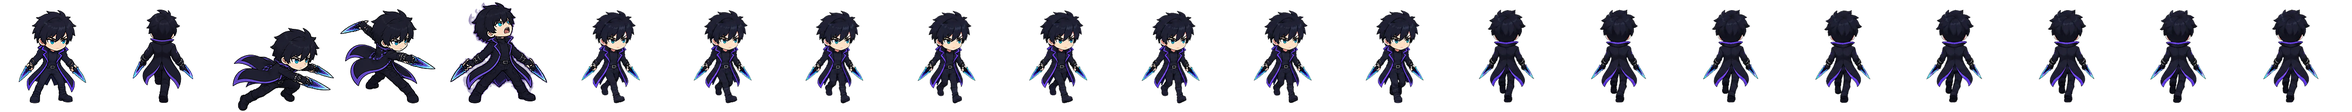
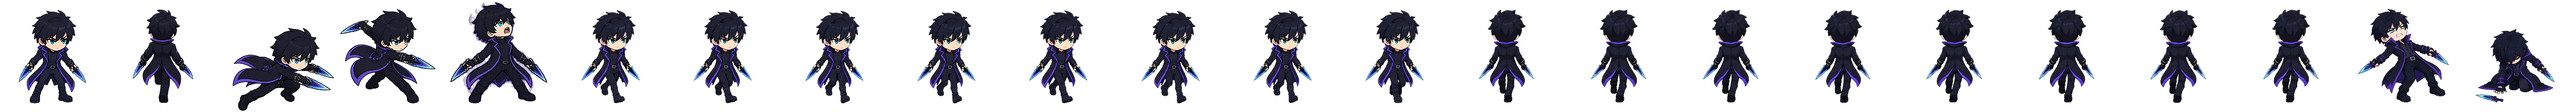
ART-14 사망 연출과 일반 공격 포즈 및 베어 이그리트 걷기 연결

diff --git a/docs/devlog.md b/docs/devlog.md
@@ -921,6 +921,10 @@
 
 - 플레이어21칸 시트에 앞5~12/뒤13~20을12fps로 연결하고 지정 모션값을 적용한다. player/enemy/shadow CSV에 Walk_cols·Walk_back_cols·Walk_fps를 추가해 pose에서만 사용하며,앞뒤 전환 시간 유지·정지 초기화·뒤 범위 생략 대체·잘못된 범위 경고와 기존 포즈 대체를 구현한다. 스킬/공격 우선·반전/잔상/그림자/판정은 유지하고 빈 걷기 행의 기존 표시를 대조한다. 기존 ART-09/11은 새 시트 크기 기대만 갱신하고 기존 앞뒤·스킬 검사는 걷기 빈 설정으로 준비해 기대를 유지한다. 사용자 CSV3건의 기존 칸 바이트를 보존·커밋 제외하며 enemy.csv 커밋은 HP30으로 분리한다. 추가36검사·전체P0 4281검사 실패0(MISMATCH2),runtime1회 통과(인증서 stderr2줄만),import1회 정상 종료. 열 설명은 시스템10 표에 추가,검사·원문은 .local/reports/ART-13.md,직접 플레이 확인 전이다.
 
+## 2026-11-16 ART-14 — 사망 연출·일반 공격 포즈·추가 걷기 시트
+
+- 사용자 승인 추가 선행 파일인 베어9칸·이그리트10칸 걷기와 플레이어23칸을 연결했다. HP0의 is_dead·일시정지·died 및 결과 스냅샷은 즉시 유지하고,멈춘 세계에서 플레이어 그림만21→22·시각 밀림/기울기/흰 번쩍임/발 기준 눌림·검정 오버레이를 처리한 뒤1.2초에 결과 또는 독립 사망 라벨을 표시한다. 일반 공격은 두 타격과 마지막 타격 후0.08초간3번을 표시하며 걷기 시간·스킬 우선·기존 내딛기를 유지한다. 피격원 좌표 기록만 추가해 사망 밀림 방향을 얻고 기존 피해/판정 호출과 시점은 그대로다. 베어의115/230 화면 배율은 이전111/222와 같은0.5다. 기존 즉시 사망 표시 검사2곳은 완료 신호 대기만 추가,추가 시트 관련 표시 기대와 빈 걷기 검사 대상만 갱신했다. 사용자 CSV값은 보존·커밋 제외하며 검증 사본과 커밋만 HP30 등 HEAD값을 사용한다. 추가31검사 통과·최종P0 4310검사 실패0(MISMATCH2)·runtime1회 통과(인증서 stderr2줄만). 첫P0의 범위 오류 입력2건은23칸 기준으로 입력만 보완했고 기대는 유지했다. 정확한 변경 검사 이름·원문은 .local/reports/ART-14.md,직접 플레이 확인 전이다.
+
 ## 다음 기록 양식
 
 - **목표:**
